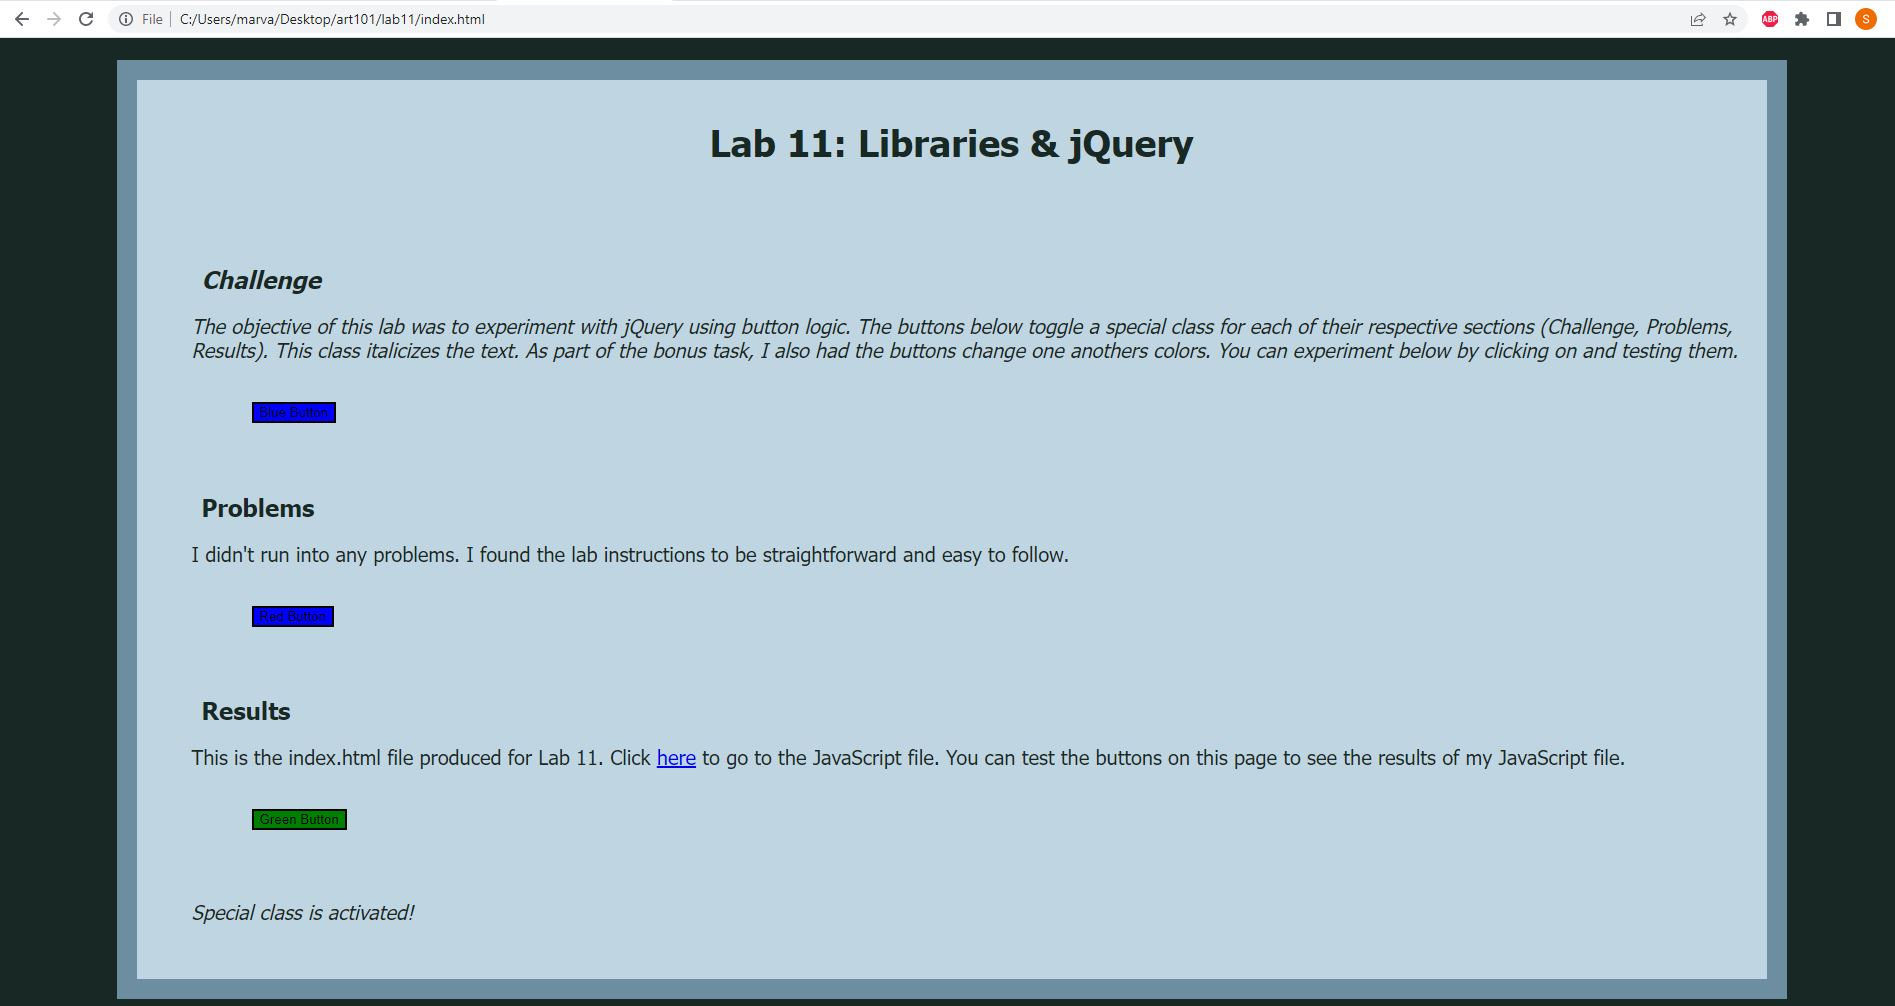
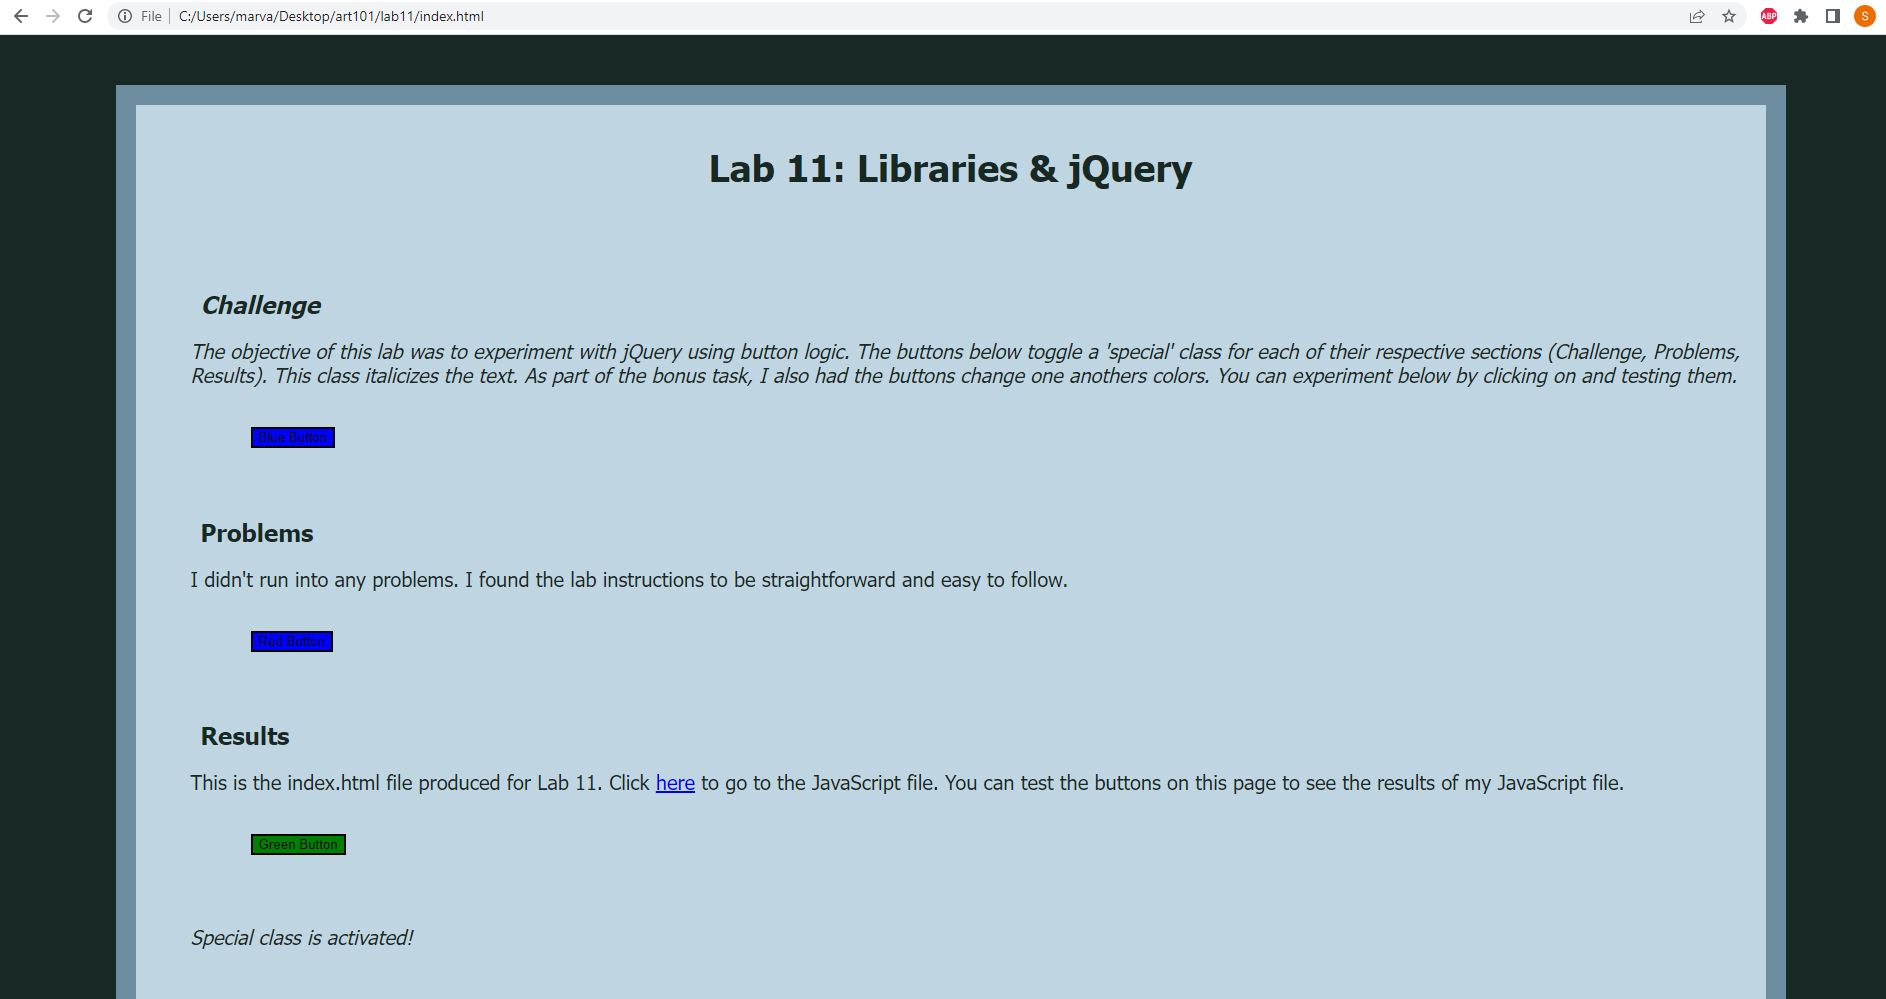
final image insertion

Changed region(s): [[0.0, 0.0, 1.0, 1.0], [0.0923, 0.6827, 0.8611, 0.8689], [0.0923, 0.4965, 0.5536, 0.6517]]

diff --git a/lab11/index.html b/lab11/index.html
@@ -17,7 +17,7 @@
 			<h2>Challenge</h2>
 
 			<p>The objective of this lab was to experiment with jQuery using button logic.
-				The buttons below toggle a special class for each of their respective sections
+				The buttons below toggle a 'special' class for each of their respective sections
 				(Challenge, Problems, Results). This class italicizes the text. As part of the
 				bonus task, I also had the buttons change one anothers colors. You can
 				experiment below by clicking on and testing them.</p>
